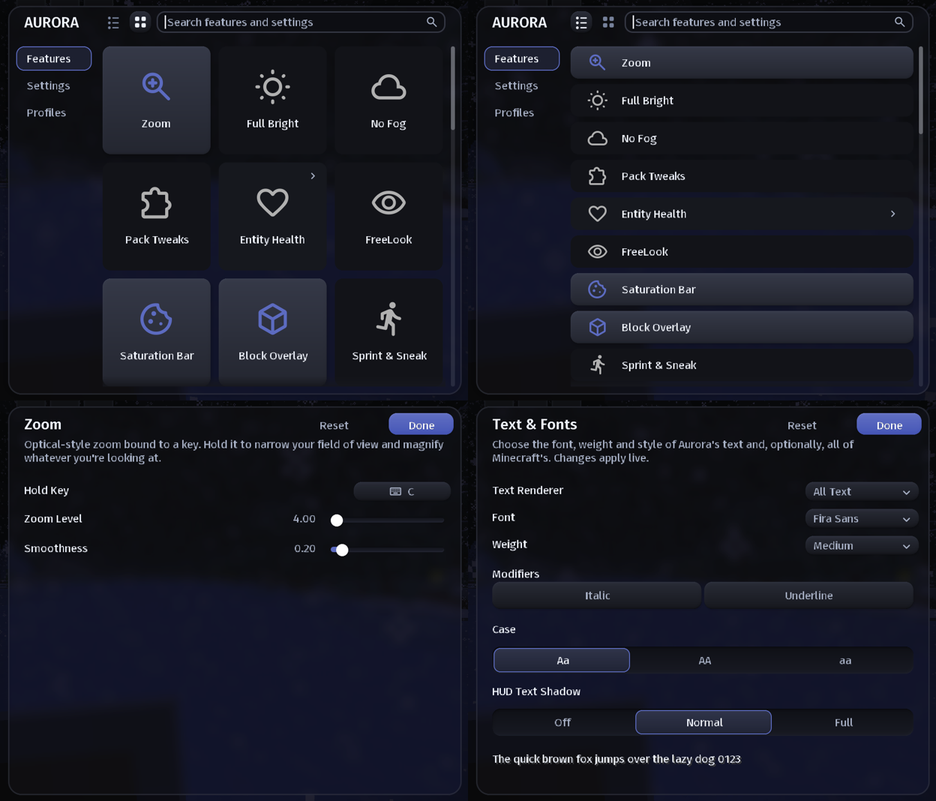
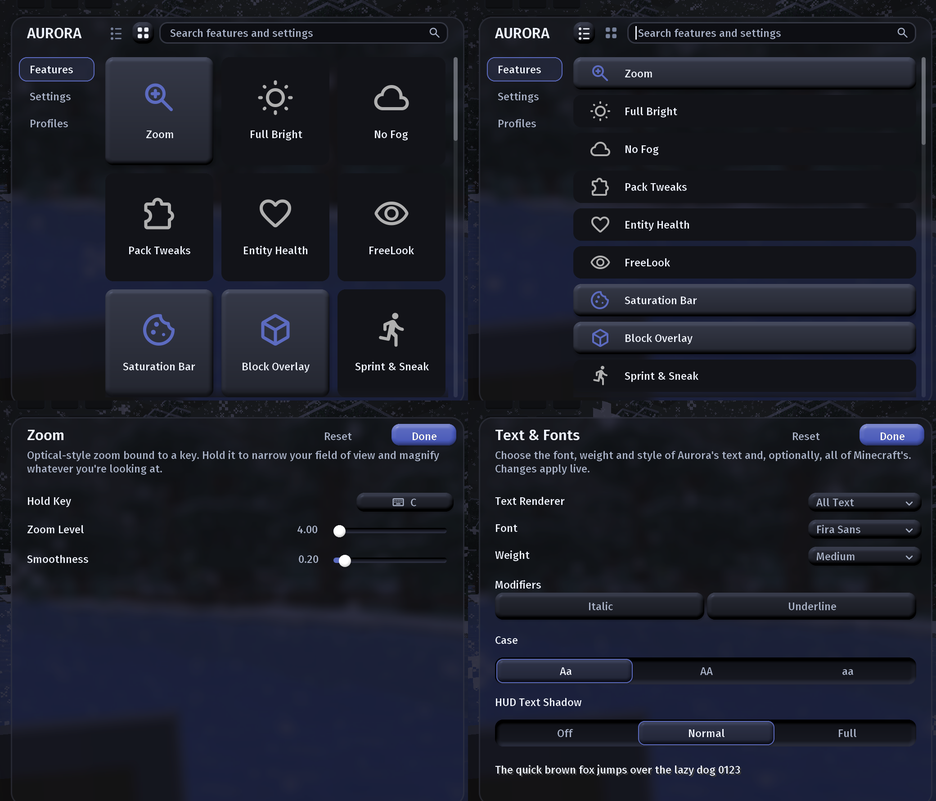
Refresh depth-pass evidence for the gem-facet tuning

diff --git a/docs/reports/2026-11-17-ui-depth-tune.md b/docs/reports/2026-11-17-ui-depth-tune.md
@@ -149,10 +149,17 @@ released when the player returns to gameplay. Tracked image backing at the end o
 steady runs was 6.0 MiB (grid) and 8.5 MiB (Text & Fonts). This is a UI-open measurement,
 not release overhead acceptance (`tools/overhead_check.py`).
 
+Owner tuning after this acceptance (same day): the rim lighting was made slightly more
+pronounced, the bevel slope was corrected to match the prototype the owner approved (the
+earlier `/band` divisor rendered it about four times weaker), and sharp corners became
+planar gem facets. Re-measured on that build: reopening the main screen and Text & Fonts
+from gameplay took 15.2–15.9 ms on the first frame (three samples each), unchanged.
+
 Visuals: [before, live](evidence/ui-depth/before-live.png),
 [after, live](evidence/ui-depth/after-live.png),
 [before, factory](evidence/ui-depth/before-factory.png),
-[after, factory](evidence/ui-depth/after-factory.png). In greyscale, ON and OFF tiles
+[after, factory](evidence/ui-depth/after-factory.png),
+[after, factory with SQUARE corners](evidence/ui-depth/after-factory-square.png). In greyscale, ON and OFF tiles
 separate clearly in both themes, and a hovered OFF tile stays visibly OFF. Not covered:
 Vulkan, the 26.1.2 and 26.2 clients, GUI scales other than 3, and long-label overflow
 beyond these screens.
